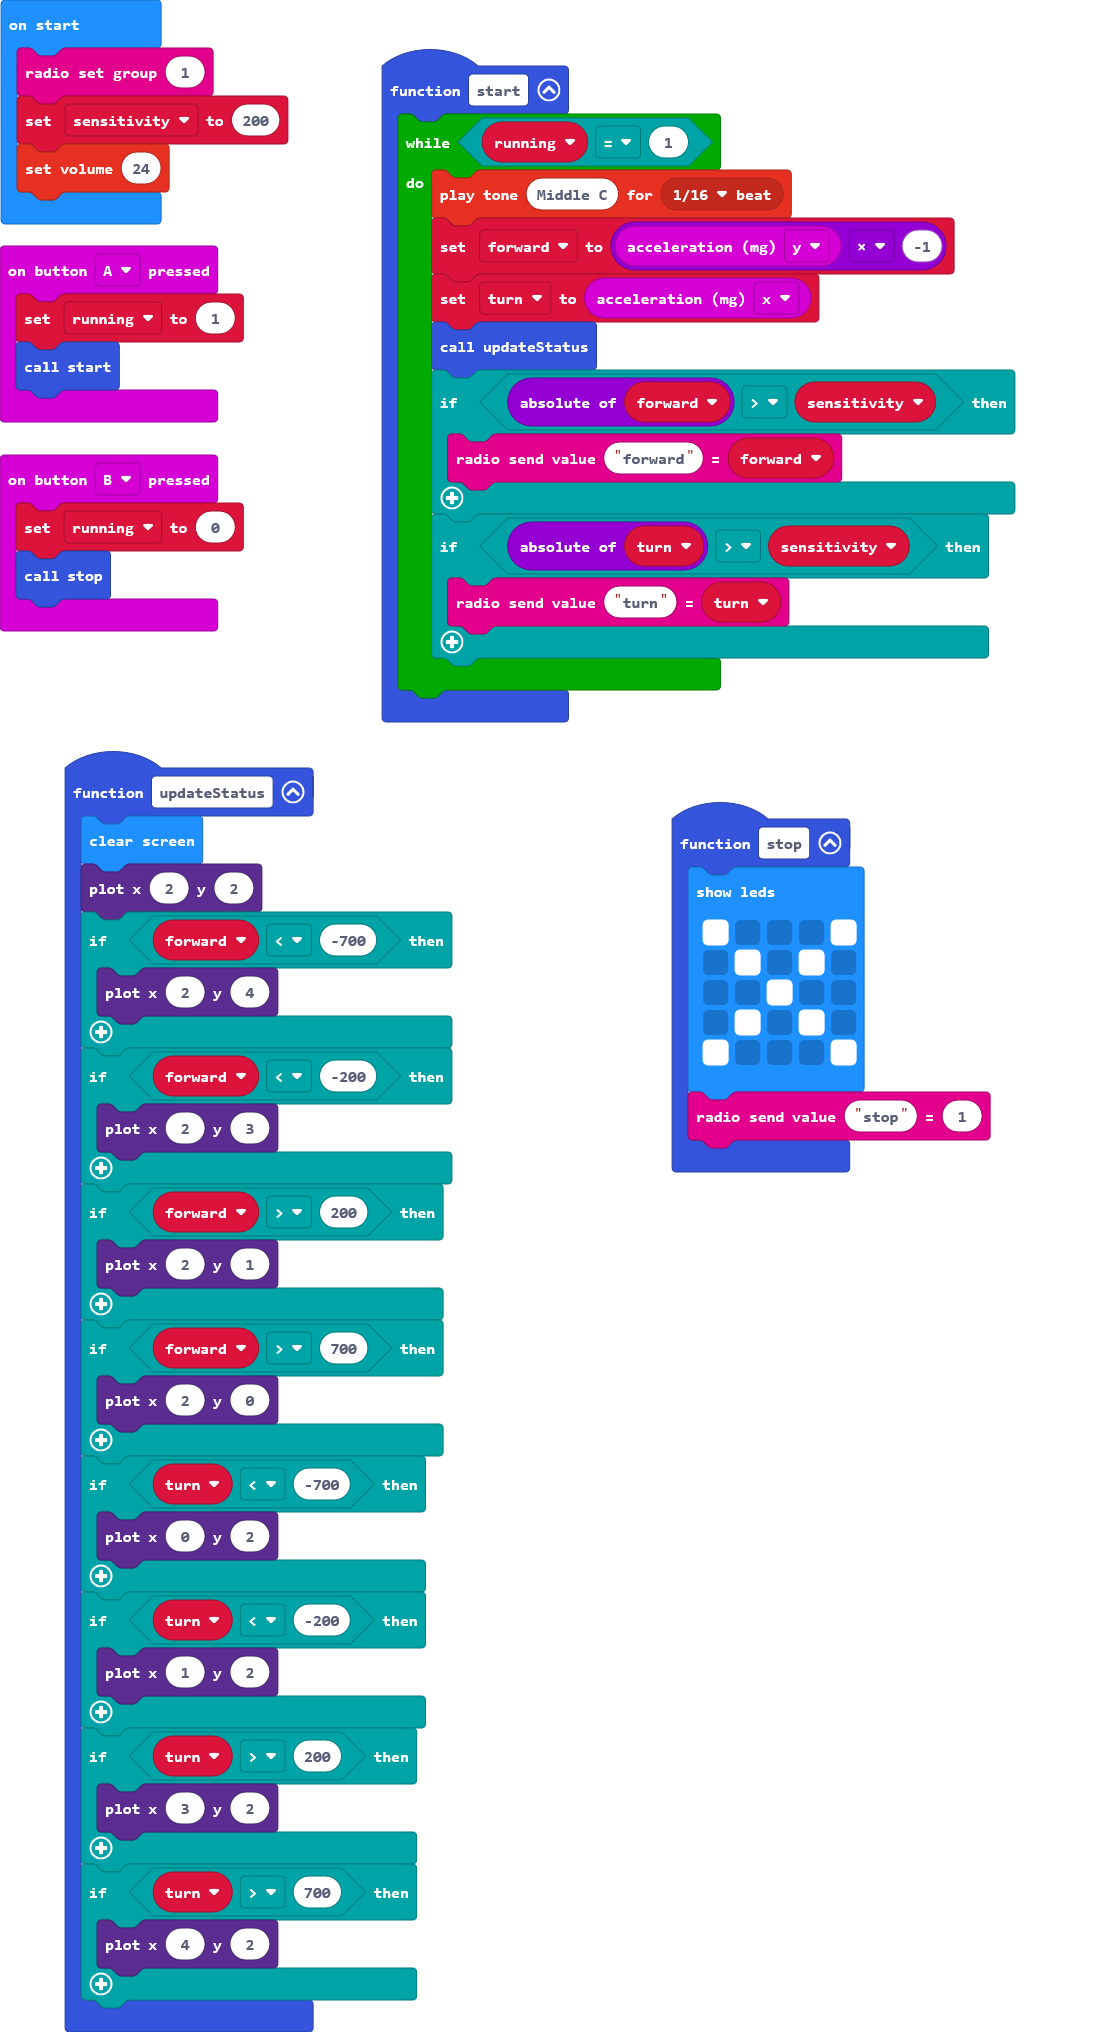
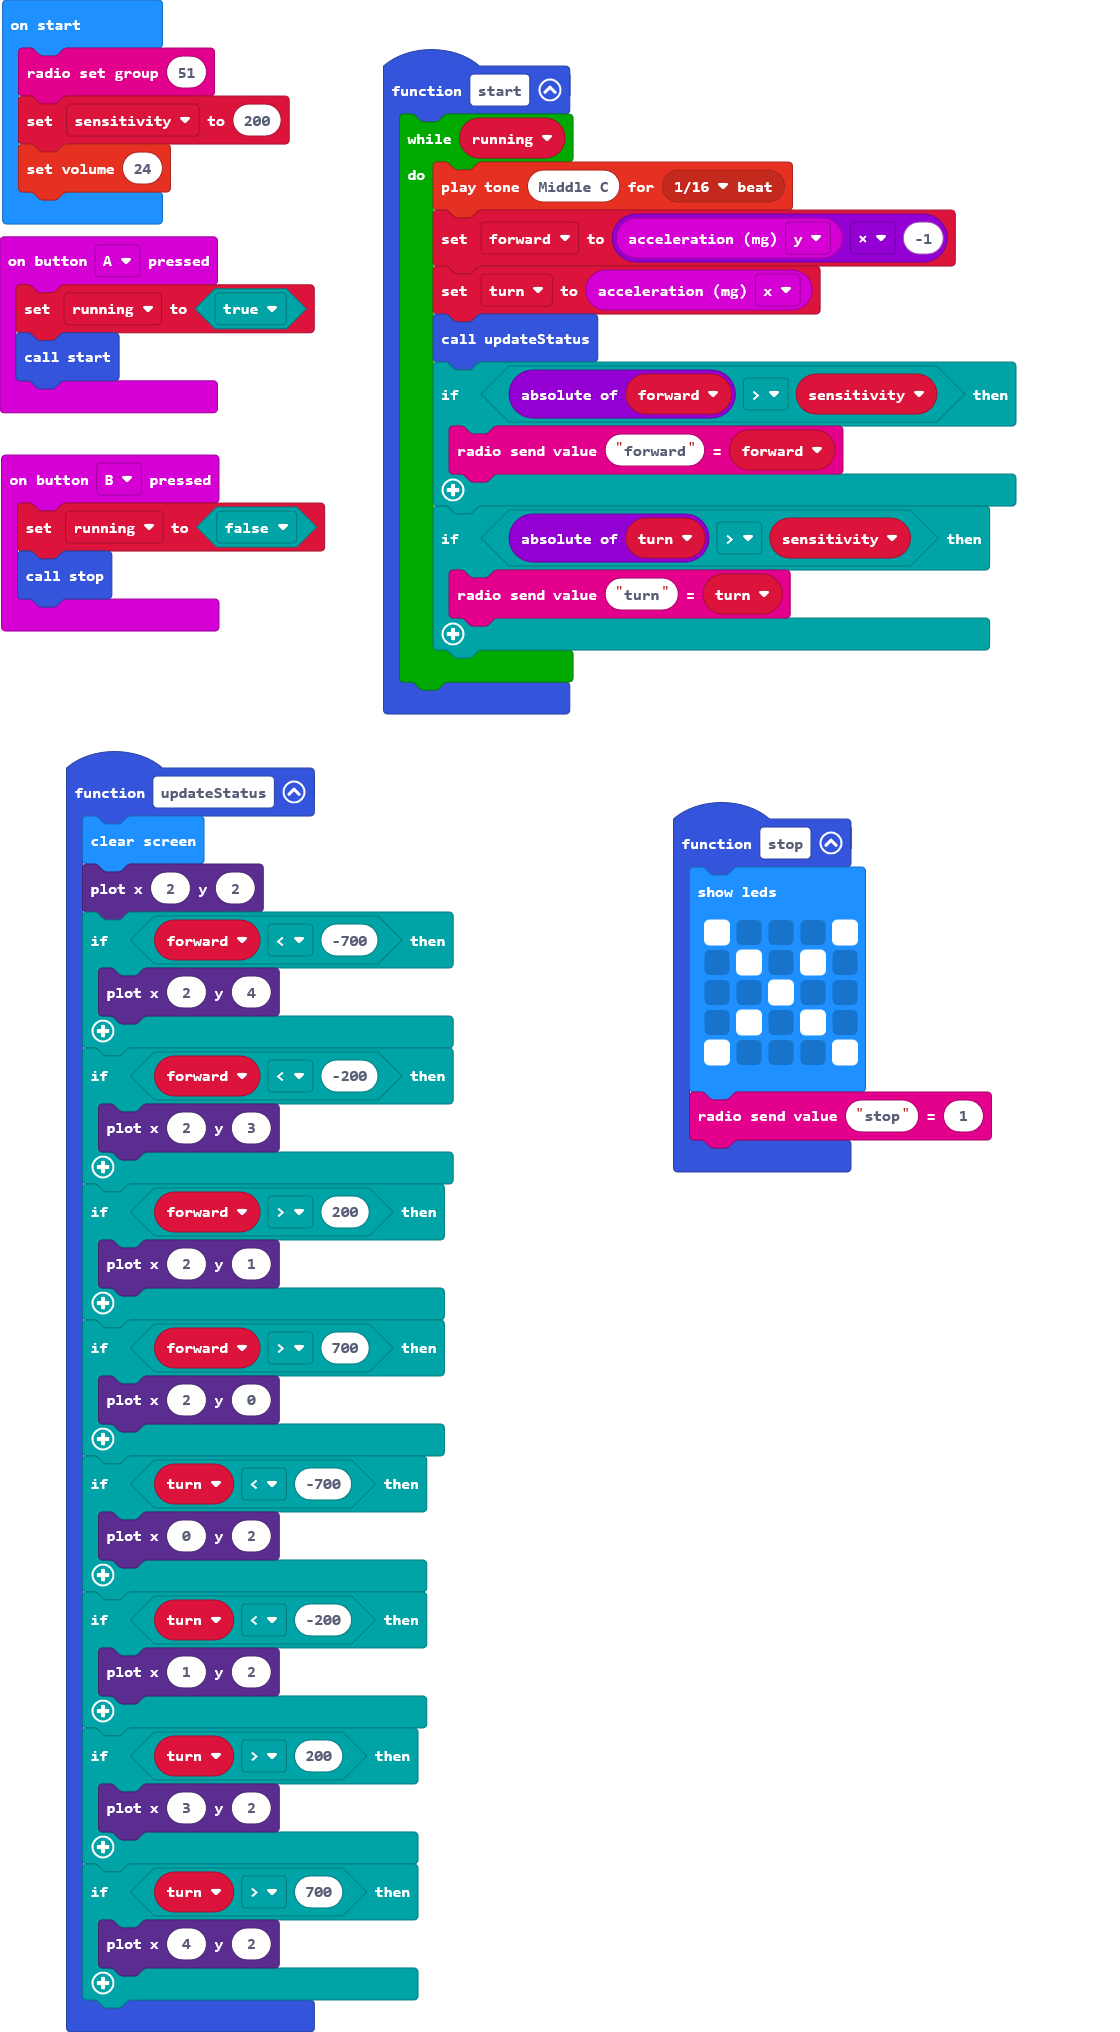
change channel

diff --git a/main.ts b/main.ts
@@ -9,15 +9,15 @@ function stop () {
     radio.sendValue("stop", 1)
 }
 input.onButtonPressed(Button.A, function () {
-    running = 1
+    running = true
     start()
 })
 input.onButtonPressed(Button.B, function () {
-    running = 0
+    running = false
     stop()
 })
 function start () {
-    while (running == 1) {
+    while (running) {
         music.playTone(262, music.beat(BeatFraction.Sixteenth))
         forward = input.acceleration(Dimension.Y) * -1
         turn = input.acceleration(Dimension.X)
@@ -60,8 +60,8 @@ function updateStatus () {
 }
 let turn = 0
 let forward = 0
-let running = 0
+let running = false
 let sensitivity = 0
-radio.setGroup(1)
+radio.setGroup(51)
 sensitivity = 200
 music.setVolume(24)
